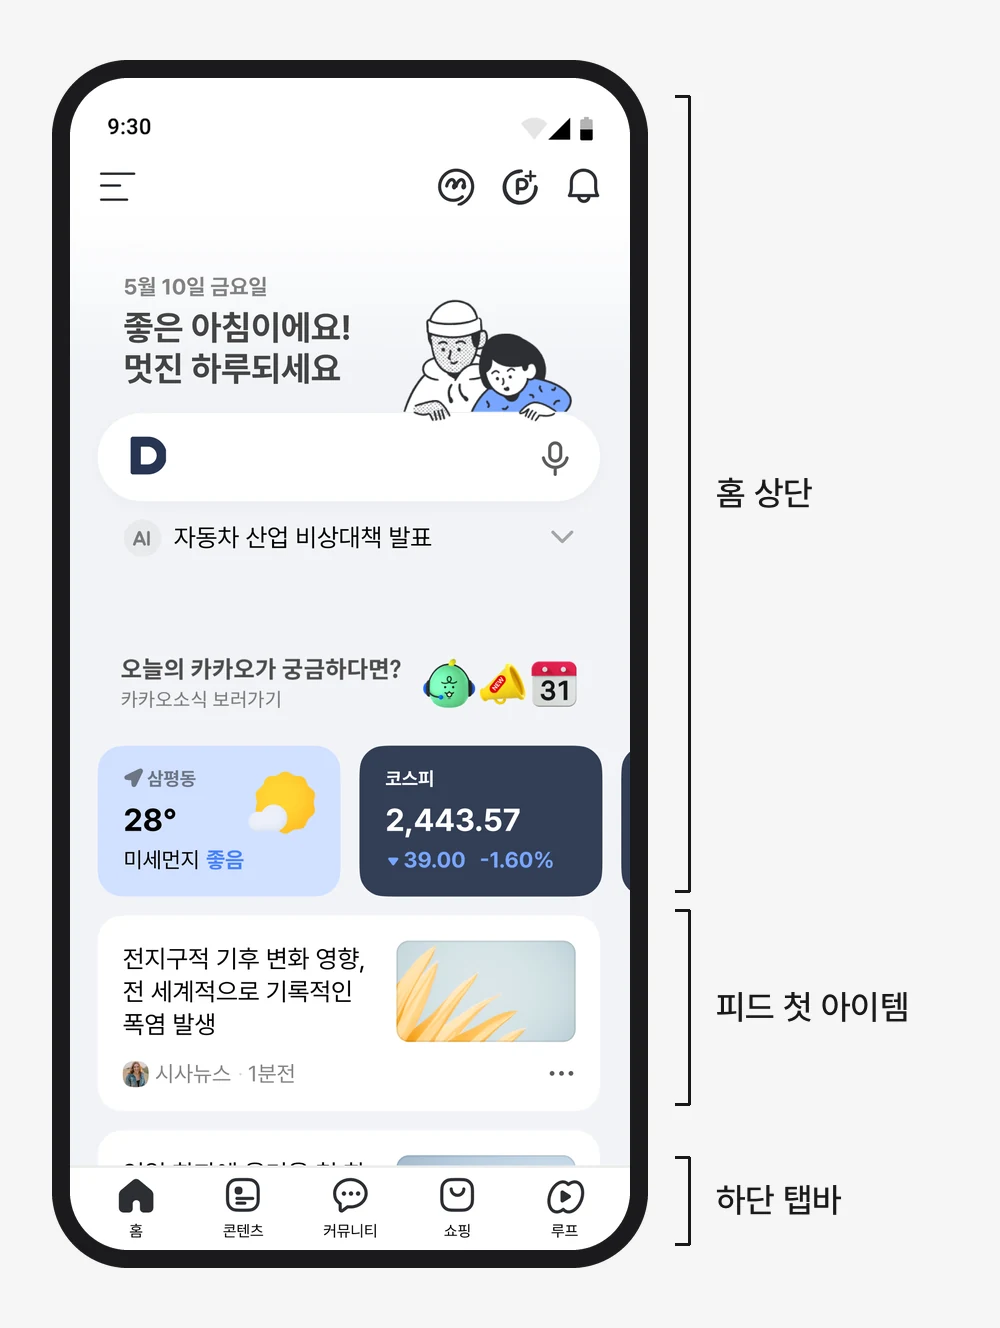
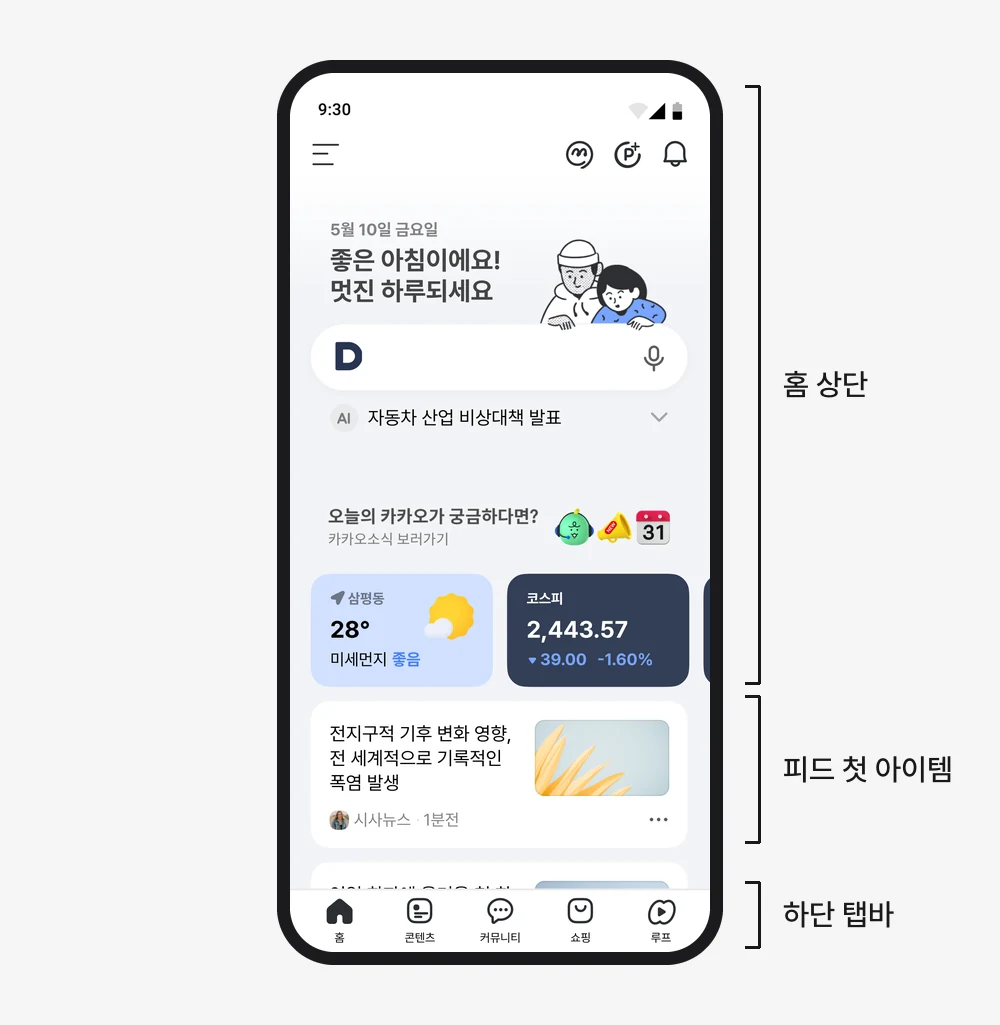
다음앱 첫 화면 이미지: 폰만 가운데 정렬하고 주석은 오른쪽에 붙임

Changed region(s): [[0.031, 0.0312, 0.961, 0.9678], [0.186, 0.3746, 0.217, 0.4371], [0.124, 0.0937, 0.155, 0.1249]]

diff --git a/daum-app.html b/daum-app.html
@@ -64,7 +64,7 @@
     </section>
     <section class="cs-block">
       <figure class="cs-fig">
-        <picture><source media="(max-width:820px)" srcset="img/daumapp/firstcard-m.webp?v=202610181800" width="1000" height="1362"><img src="img/daumapp/firstcard.webp?v=202610181800" width="2240" height="1462" alt="개편 후 홈 첫 화면과 오른쪽 괄호. 위에서부터 홈 상단, 날씨·증시 위젯 아래의 피드 첫 아이템, 하단 탭바" loading="lazy"></picture>
+        <picture><source media="(max-width:820px)" srcset="img/daumapp/firstcard-m.webp?v=202610190230" width="1000" height="1025"><img src="img/daumapp/firstcard.webp?v=202610190230" width="2240" height="1428" alt="개편 후 홈 첫 화면과 오른쪽 괄호. 위에서부터 홈 상단, 날씨·증시 위젯 아래의 피드 첫 아이템, 하단 탭바" loading="lazy"></picture>
       </figure>
       <div class="cs-sec cs-col">
         <p class="cs-label">홈 설계</p>
